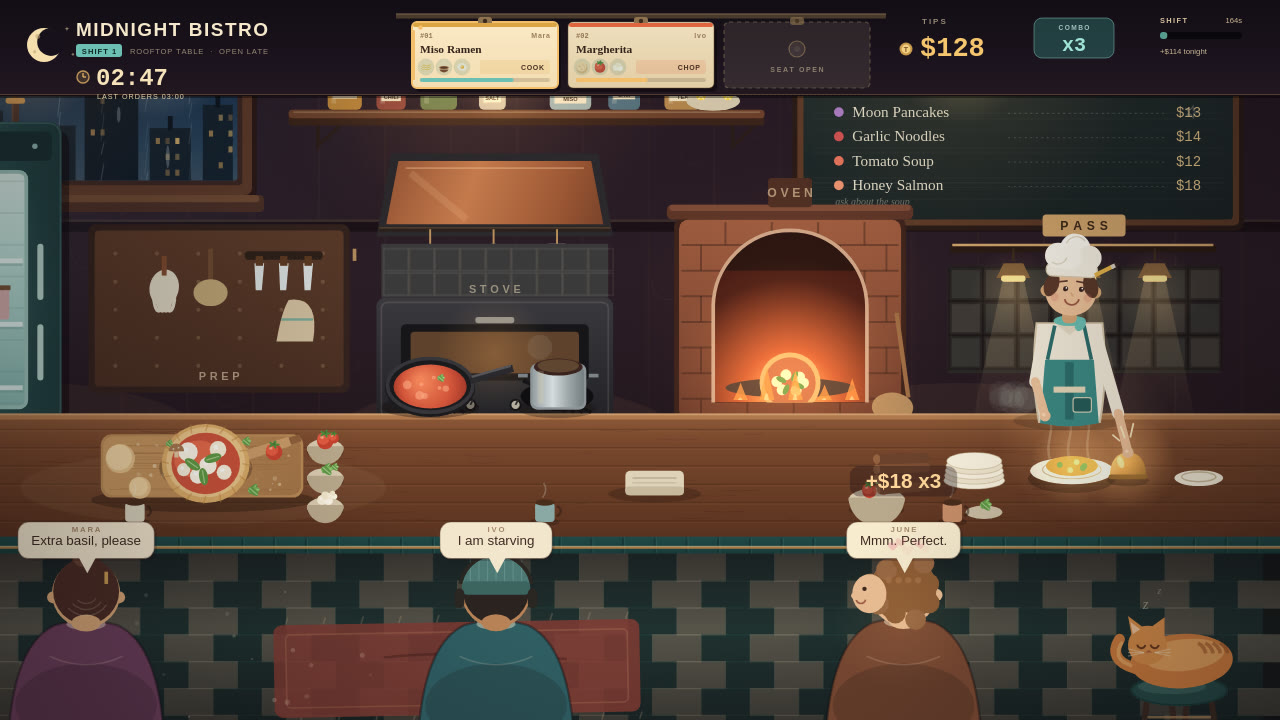
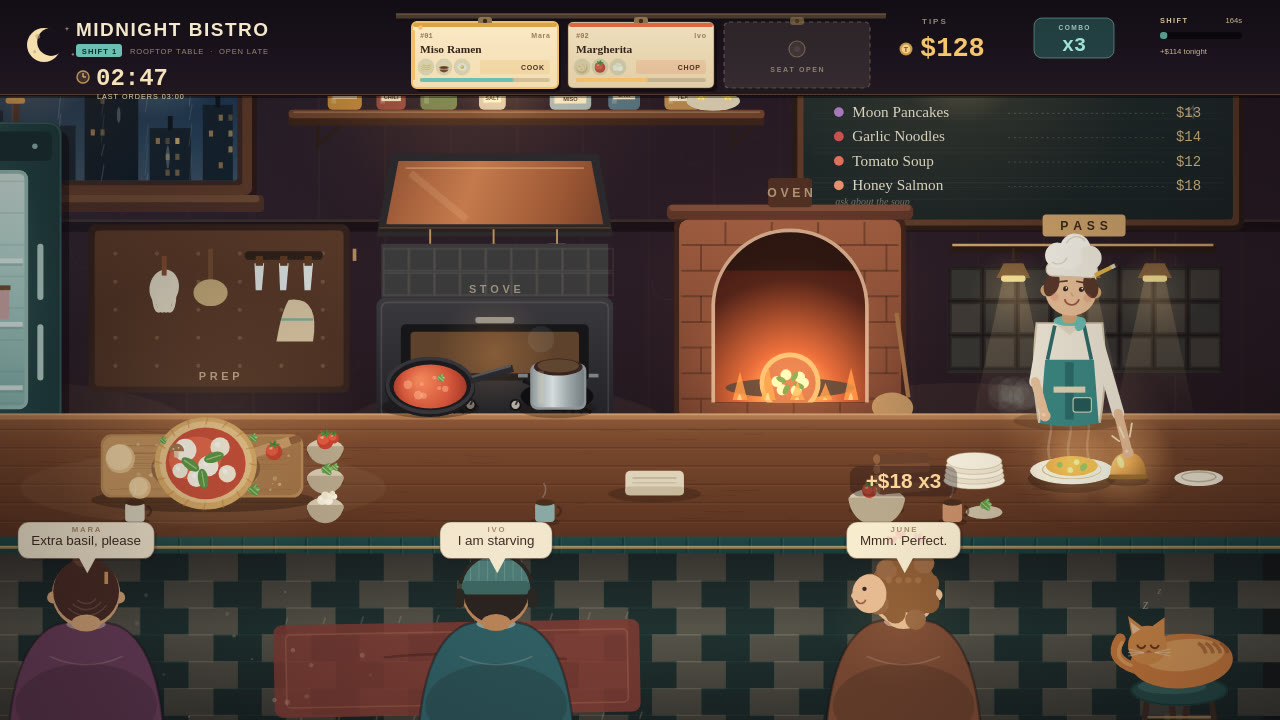
Fix garnish staging order, enlarge the hero pizza, lift the pass and HUD contrast

diff --git a/game/src/render.js b/game/src/render.js
@@ -941,6 +941,11 @@ function drawPrepTop(ctx, game) {
   const by = 468;
   const bw = 166;
   const bh = 52;
+  // a warm pool of light from the prep lamp, so the hero board carries the eye
+  ctx.save();
+  ctx.globalCompositeOperation = 'lighter';
+  glow(ctx, 396, 468, 132, '#ffcf82', 0.11);
+  ctx.restore();
   // shadow
   ctx.fillStyle = 'rgba(24,13,9,0.32)';
   ctx.beginPath();
@@ -991,7 +996,7 @@ function drawPrepTop(ctx, game) {
   // the pizza, mid-assembly
   const px = 394;
   const py = 492;
-  drawPizza(ctx, px, py, 36, game);
+  drawPizza(ctx, px, py, 42, game);
   // bowls of toppings
   drawToppingBowl(ctx, 492, 476, 'tomato');
   drawToppingBowl(ctx, 492, 500, 'basil');

diff --git a/game/src/shots.js b/game/src/shots.js
@@ -152,8 +152,8 @@ export function stageShot(game, kind, seed = 7) {
     ticket(game, 1, 'ramen', 'cook', 0.54, { gathered: true, chops: 3 });
     ticket(game, 2, 'salmon', 'gather', 0.88);
     moveChefTo(game.chef, 'prep', 2);
-    setPose(game.chef, 'garnish', 99);
     startChop(game, 0);
+    setPose(game.chef, 'garnish', 99);
     if (game.chop) {
       game.chop.chops = 2;
       game.chop.pos = 0.47;
